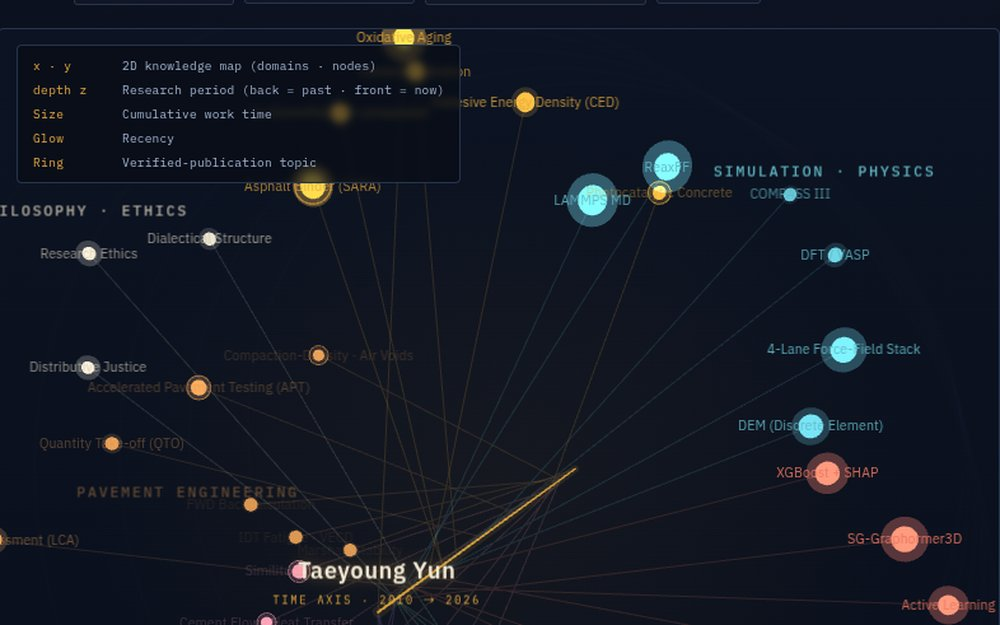
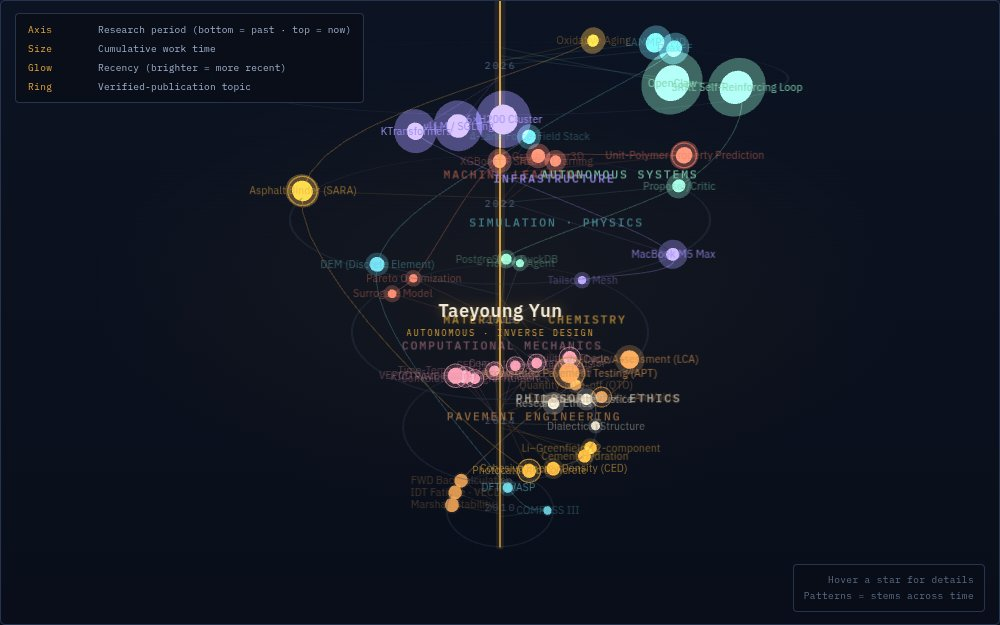
소개 쪽 3D 지식 지도를 Knowledge Vortex(시간 축 나선)판으로 교체
- about/atlas/index.html: 사용자 제공 knowledge_atlas_vortex_en.html 원본 그대로
- about/atlas/preview.jpg: 새 지도 3D 장면 캡처(1000×625)
- about/index.html: 지도 설명 문구를 나선 구조(세로축 = 연구 시기, 8분야 · 45주제 · 연결 7개)로 갱신

Claude-Session: https://claude.ai/code/session_01CkAmjdB34jTARtwSSqSEpf

diff --git a/about/atlas/index.html b/about/atlas/index.html
@@ -3,7 +3,7 @@
 <head>
 <meta charset="UTF-8">
 <meta name="viewport" content="width=device-width, initial-scale=1.0">
-<title>Knowledge Map × Time Axis — Taeyoung Yun (3D)</title>
+<title>Knowledge Vortex — Taeyoung Yun (3D)</title>
 <link rel="preconnect" href="https://fonts.googleapis.com">
 <link rel="preconnect" href="https://fonts.gstatic.com" crossorigin>
 <link href="https://fonts.googleapis.com/css2?family=Newsreader:ital,opsz,wght@0,6..72,300;0,6..72,500;1,6..72,400&family=IBM+Plex+Mono:wght@400;500&family=IBM+Plex+Sans+KR:wght@300;400;500;600&display=swap" rel="stylesheet">
@@ -85,53 +85,50 @@
 <body>
 <div class="wrap">
   <header>
-    <span class="kicker">Knowledge Map × Time Axis · 2D Map + Time Depth (3D)</span>
-    <h1>A map from the front,<br><em>time from the side.</em></h1>
-    <p class="lede">The 2D knowledge map keeps its x·y coordinates, and <b>time is raised as the depth (z) axis</b>. Head-on along the time axis it looks exactly like the familiar 2D radial map; rotate to the side and each topic spreads out along its <b>research period (2010 → 2026)</b>. Drag = rotate · wheel = zoom · right-drag / Shift+drag = pan.</p>
-    <div class="meta">x·y = 2D knowledge map · depth (z) = research period · size = effort · glow = recency · ring = verified publication</div>
+    <span class="kicker">Knowledge Vortex · A Helix Through Time (3D)</span>
+    <h1>What pierces the center<br><em>is time.</em></h1>
+    <p class="lede">Stand Taeyoung Yun up as a vertical axis — 2010s continuum computational mechanics at the bottom, 2020s molecular &amp; autonomous research at the top — and the eight domains wind around that time axis, widening as they rise into a <b>vortex</b>. Drag to rotate, wheel to zoom, right-drag (or Shift+drag) to pan.</p>
+    <div class="meta">Vertical axis = research period (2010 → 2026) · thickness = effort · glow = recency · dashed ring = verified publication</div>
   </header>
 
   <div class="patterns" id="patterns"></div>
 
   <div class="wbar">
     <span class="wlabel">View →</span>
-    <button class="wseg" id="b-front">▣ Front (2D)</button>
-    <button class="wseg" id="b-side">◧ Side (time)</button>
-    <button class="wseg" id="b-rot">⟳ Auto-rotate: off</button>
-    <button class="wseg" id="b-home">⌖ Reset</button>
+    <button class="wseg on" id="b-rot">⟳ Auto-rotate: on</button>
+    <button class="wseg" id="b-home">⌖ Reset view</button>
+    <span class="wcap">drag = rotate · wheel = zoom · right-drag / Shift+drag = pan</span>
   </div>
 
   <div class="stage">
     <div class="scene" id="scene">
       <div class="legend">
-        <div class="lrow"><span class="lk">x · y</span><span class="lv">2D knowledge map (domains · nodes)</span></div>
-        <div class="lrow"><span class="lk">depth z</span><span class="lv">Research period (back = past · front = now)</span></div>
+        <div class="lrow"><span class="lk">Axis</span><span class="lv">Research period (bottom = past · top = now)</span></div>
         <div class="lrow"><span class="lk">Size</span><span class="lv">Cumulative work time</span></div>
-        <div class="lrow"><span class="lk">Glow</span><span class="lv">Recency</span></div>
+        <div class="lrow"><span class="lk">Glow</span><span class="lv">Recency (brighter = more recent)</span></div>
         <div class="lrow"><span class="lk">Ring</span><span class="lv">Verified-publication topic</span></div>
       </div>
       <div id="labels"></div>
-      <div class="hint">Front (▣) = same as 2D<br>Side (◧) = time spread · hover a star for details</div>
+      <div class="hint">Hover a star for details<br>Patterns = stems across time</div>
       <div id="err">Could not load the 3D library.<br>Please check your network connection.</div>
     </div>
 
     <aside class="panel" id="panel">
-      <span class="eyebrow" id="p-eye">map + time axis</span>
-      <h2 id="p-title">The 2D map, stood up in time</h2>
+      <span class="eyebrow" id="p-eye">7 patterns · time axis</span>
+      <h2 id="p-title">The Vortex of Time</h2>
       <div class="body" id="p-body">
-        The same 2D map is kept and <b>time is raised as the depth axis</b>. Head-on it looks identical to the 2D figure; from the side each topic scatters back-to-front by its publication / research period.<br><br><b>Computational Mechanics</b> (2010–2013) sits farthest back; <b>Infrastructure · Autonomy</b> (2025–2026) sits closest to the front. Press pattern ⑦ <b>Two Computational Eras</b> and rotate to the side to see the stem that runs from past to present.
+        Stood up along time, the map becomes a funnel: the narrow base is <b>2010s continuum computational mechanics</b> (VEPCD·KICTPAVE·CFD·similitude); the widening swirl above is <b>2020s molecular &amp; autonomous research</b>.<br><br>Press a pattern to light up its stem <b>across time</b>. In particular, ⑦ <b>Two Computational Eras</b> rises straight up the vortex from base to crown.
       </div>
       <div class="crosslist" id="p-chips"></div>
     </aside>
   </div>
 
-  <footer>2D map + time depth axis · 8 domains / 45 nodes / 7 cross-cutting patterns — front = 2D · side = time spread · drag to rotate · wheel to zoom</footer>
+  <footer>Time-axis vortex · 8 domains / 45 nodes / 7 cross-cutting patterns — drag to rotate · wheel to zoom · right-drag to pan</footer>
 </div>
 
 <div id="tip"><span class="tl"></span><span class="tt"></span></div>
 
 <script>
-// r = recency (1-5) · e = effort (1-5) · year = confirmed/estimated publication-research year (preferred when present)
 const clusters=[
   {id:'mat', name:'Materials · Chemistry', sub:'Materials', angle:-90, color:'#e0a53b', nodes:[
     {id:'sara', label:'Asphalt Binder (SARA)', desc:'SARA fractions — saturates, aromatics, resins, asphaltenes (KSRE topic)', r:4, e:5, pub:true, year:2022},
@@ -220,136 +217,106 @@ const patterns=[
    body:'A single stem runs through <b>two computational eras</b>. <b>2010s</b>: continuum multiphysics — VEPCD, KICTPAVE FEM, TTSP, CFD heat/flow, similitude. <b>2020s</b>: molecular & data — MD, ReaxFF, ML surrogates. Only the method (FEM·CFD→MD·ML) and scale (continuum→molecular) changed; the <b>same question</b> is being chased.'},
 ];
 
-// ---------- positions: 2D map (x,y) + time (z) ----------
+// ---------- vortex positions (twist + widening funnel) ----------
 const DEG=Math.PI/180;
-const HUB=252, SCALE=0.82;
-const YMIN=2009, YMAX=2026;
+const HEIGHT=360, YB=-180, RMIN=46, RMAX=172, TWIST=0.92*Math.PI*2;
 const lerp=(v,a,b,oa,ob)=>oa+(Math.min(Math.max(v,a),b)-a)/(b-a)*(ob-oa);
 const yearOf=r=>2010+Math.round((r-1)*4);
-const zOf=y=>lerp(y,YMIN,YMAX,-330,55);   // past (back,-) → present (front,+)
-const ZMID=(zOf(YMIN)+zOf(YMAX))/2;
 const nodeById={}, nodeList=[];
 clusters.forEach(c=>{
-  const a=c.angle*DEG, n=c.nodes.length;
-  const spread=(n>6?172:n>5?160:152)*DEG, nodeR=(n>6?112:n>5?96:n>4?84:64);
-  const hubx=HUB*Math.cos(a), huby=HUB*Math.sin(a);
+  const baseA=c.angle*DEG, n=c.nodes.length;
   c.nodes.forEach((nd,i)=>{
-    const na=a - spread/2 + (n>1?spread*i/(n-1):0);
-    const x2=hubx+nodeR*Math.cos(na), y2=huby+nodeR*Math.sin(na);
-    const yr=nd.year||yearOf(nd.r);
-    const o={...nd, cluster:c.id, color:c.color, year:yr,
-      x:x2*SCALE, y:-y2*SCALE, z:zOf(yr), size:lerp(nd.e,1,5,2.4,7.2)};
+    const off=(i-(n-1)/2)*0.16;
+    let y=lerp(nd.r,1,5,YB,YB+HEIGHT)+(nd.e-3)*8+(i-(n-1)/2)*5;
+    y=Math.max(YB-18,Math.min(YB+HEIGHT+18,y));
+    const normY=(y-YB)/HEIGHT, rho=RMIN+normY*(RMAX-RMIN), th=baseA+off+TWIST*normY;
+    const o={...nd, cluster:c.id, color:c.color, year:nd.year||yearOf(nd.r),
+      x:rho*Math.cos(th), y:y, z:rho*Math.sin(th), size:lerp(nd.e,1,5,2.4,7.2)};
     nodeById[nd.id]=o; nodeList.push(o);
   });
 });
 
-// ---------- three.js ----------
 let renderer,scene,camera,raycaster,W,H;
 const sceneEl=document.getElementById('scene'), labelsEl=document.getElementById('labels'), tip=document.getElementById('tip');
 const nodeMeshes=[]; let patternTube=null, active=null, dimSet=null, hovered=null;
-const labelObjs=[]; const yearRings=[];
-const HOME={th:Math.PI/2-0.34, ph:Math.PI/2-0.26, rad:780, tgt:new THREE.Vector3(0,0,ZMID)};
-const cam={th:HOME.th, ph:HOME.ph, rad:HOME.rad, tgt:HOME.tgt.clone()};
-const camT={th:HOME.th, ph:HOME.ph, rad:HOME.rad, tgt:HOME.tgt.clone()};
-let autoRotate=false;
-
+const labelObjs=[];
+const cam={th:0.72, ph:1.12, rad:640, tgt:new THREE.Vector3(0,6,0)};
+const camT={th:0.72, ph:1.12, rad:640, tgt:new THREE.Vector3(0,6,0)};
+let autoRotate=true;
 function v3(x,y,z){return new THREE.Vector3(x,y,z);}
+
 function init(){
   if(typeof THREE==='undefined'){ document.getElementById('err').style.display='flex'; return; }
   W=sceneEl.clientWidth; H=sceneEl.clientHeight;
-  renderer=new THREE.WebGLRenderer({antialias:true,alpha:true});
-  renderer.setPixelRatio(Math.min(devicePixelRatio,2)); renderer.setSize(W,H);
+  renderer=new THREE.WebGLRenderer({antialias:true,alpha:true}); renderer.setPixelRatio(Math.min(devicePixelRatio,2)); renderer.setSize(W,H);
   sceneEl.insertBefore(renderer.domElement, labelsEl);
-  scene=new THREE.Scene();
-  camera=new THREE.PerspectiveCamera(47,W/H,1,7000);
-  raycaster=new THREE.Raycaster();
-  buildAxis(); buildSpokes(); buildNodes(); buildLabels(); bindControls();
+  scene=new THREE.Scene(); camera=new THREE.PerspectiveCamera(48,W/H,1,7000); raycaster=new THREE.Raycaster();
+  buildAxis(); buildArms(); buildNodes(); buildLabels(); bindControls();
   window.addEventListener('resize',onResize); animate();
 }
-
 function buildAxis(){
-  const z0=zOf(YMIN), z1=zOf(YMAX), len=z1-z0;
-  const core=new THREE.Mesh(new THREE.CylinderGeometry(0.7,0.7,len,12),
-    new THREE.MeshBasicMaterial({color:0xe0a53b,transparent:true,opacity:0.85}));
-  core.rotation.x=Math.PI/2; core.position.z=(z0+z1)/2; scene.add(core);
-  const glow=new THREE.Mesh(new THREE.CylinderGeometry(3.2,3.2,len,16),
-    new THREE.MeshBasicMaterial({color:0xe0a53b,transparent:true,opacity:0.09,blending:THREE.AdditiveBlending,depthWrite:false}));
-  glow.rotation.x=Math.PI/2; glow.position.z=(z0+z1)/2; scene.add(glow);
-  // time-plane rings at each labelled year
-  [2010,2014,2018,2022,2026].forEach(yr=>{
-    const ring=new THREE.Mesh(new THREE.RingGeometry(300,302,72),
-      new THREE.MeshBasicMaterial({color:0x32415c,transparent:true,opacity:0.0,side:THREE.DoubleSide,depthWrite:false}));
-    ring.position.z=zOf(yr); scene.add(ring); yearRings.push(ring);
+  const h=HEIGHT+90;
+  const core=new THREE.Mesh(new THREE.CylinderGeometry(0.7,0.7,h,12), new THREE.MeshBasicMaterial({color:0xe0a53b,transparent:true,opacity:0.85}));
+  core.position.y=YB+HEIGHT/2; scene.add(core);
+  const glow=new THREE.Mesh(new THREE.CylinderGeometry(3.4,3.4,h,16), new THREE.MeshBasicMaterial({color:0xe0a53b,transparent:true,opacity:0.10,blending:THREE.AdditiveBlending,depthWrite:false}));
+  glow.position.y=YB+HEIGHT/2; scene.add(glow);
+  for(let r=1;r<=5;r++){
+    const y=lerp(r,1,5,YB,YB+HEIGHT), rad=RMIN+(y-YB)/HEIGHT*(RMAX-RMIN);
+    const ring=new THREE.Mesh(new THREE.RingGeometry(rad-1,rad+0.4,64), new THREE.MeshBasicMaterial({color:0x32415c,transparent:true,opacity:0.30,side:THREE.DoubleSide,depthWrite:false}));
+    ring.rotation.x=Math.PI/2; ring.position.y=y; scene.add(ring);
+  }
+}
+function buildArms(){
+  clusters.forEach(c=>{
+    const ns=nodeList.filter(o=>o.cluster===c.id).sort((a,b)=>a.y-b.y);
+    if(ns.length>=2){
+      const curve=new THREE.CatmullRomCurve3(ns.map(o=>v3(o.x,o.y,o.z)));
+      const g=new THREE.BufferGeometry().setFromPoints(curve.getPoints(60));
+      scene.add(new THREE.Line(g,new THREE.LineBasicMaterial({color:new THREE.Color(c.color),transparent:true,opacity:0.28})));
+    }
+    ns.forEach(o=>{ const g=new THREE.BufferGeometry().setFromPoints([v3(o.x,o.y,o.z),v3(0,o.y,0)]); scene.add(new THREE.Line(g,new THREE.LineBasicMaterial({color:new THREE.Color(c.color),transparent:true,opacity:0.12}))); });
   });
 }
-
-function buildSpokes(){
-  // radial spoke from each node to the time-axis point at its own z (looks like 2D radial map head-on)
-  nodeList.forEach(o=>{
-    const g=new THREE.BufferGeometry().setFromPoints([v3(o.x,o.y,o.z),v3(0,0,o.z)]);
-    scene.add(new THREE.Line(g,new THREE.LineBasicMaterial({color:new THREE.Color(o.color),transparent:true,opacity:0.16})));
-  });
-}
-
 function buildNodes(){
   nodeList.forEach(o=>{
     const col=new THREE.Color(o.color);
     const mesh=new THREE.Mesh(new THREE.SphereGeometry(o.size,18,18), new THREE.MeshBasicMaterial({color:col}));
     mesh.position.set(o.x,o.y,o.z); mesh.userData.id=o.id; scene.add(mesh);
-    const halo=new THREE.Mesh(new THREE.SphereGeometry(o.size+lerp(o.r,1,5,1.4,5.5),16,16),
-      new THREE.MeshBasicMaterial({color:col,transparent:true,opacity:lerp(o.r,1,5,0.10,0.42),blending:THREE.AdditiveBlending,depthWrite:false}));
+    const halo=new THREE.Mesh(new THREE.SphereGeometry(o.size+lerp(o.r,1,5,1.4,5.5),16,16), new THREE.MeshBasicMaterial({color:col,transparent:true,opacity:lerp(o.r,1,5,0.10,0.42),blending:THREE.AdditiveBlending,depthWrite:false}));
     halo.position.copy(mesh.position); scene.add(halo);
     let ring=null;
-    if(o.pub){
-      ring=new THREE.Mesh(new THREE.TorusGeometry(o.size+3.2,0.45,8,40),
-        new THREE.MeshBasicMaterial({color:col,transparent:true,opacity:0.75}));
-      ring.position.copy(mesh.position); scene.add(ring);
-    }
+    if(o.pub){ ring=new THREE.Mesh(new THREE.TorusGeometry(o.size+3.2,0.45,8,40), new THREE.MeshBasicMaterial({color:col,transparent:true,opacity:0.75})); ring.position.copy(mesh.position); scene.add(ring); }
     o.mesh=mesh; o.halo=halo; o.ring=ring; o.baseHalo=halo.material.opacity; nodeMeshes.push(mesh);
   });
 }
-
 function mkLabel(cls,html){const d=document.createElement('div');d.className='lab '+cls;d.innerHTML=html;labelsEl.appendChild(d);return d;}
 function buildLabels(){
-  const c=mkLabel('clab','<span class="cn">Taeyoung Yun</span><span class="cs">TIME AXIS · 2010 → 2026</span>');
-  labelObjs.push({el:c,pos:v3(0,18,zOf(YMAX)),kind:'center'});
-  [2010,2014,2018,2022,2026].forEach(yr=>{
-    const el=mkLabel('ylab',yr+''); labelObjs.push({el,pos:v3(0,-300,zOf(yr)),kind:'year'});
-  });
+  const c=mkLabel('clab','<span class="cn">Taeyoung Yun</span><span class="cs">AUTONOMOUS · INVERSE DESIGN</span>');
+  labelObjs.push({el:c,pos:v3(0,2,0),kind:'center'});
+  for(let r=1;r<=5;r++){ const y=lerp(r,1,5,YB,YB+HEIGHT); labelObjs.push({el:mkLabel('ylab',yearOf(r)+''),pos:v3(0,y,0),kind:'year'}); }
   clusters.forEach(cl=>{
     const ns=nodeList.filter(o=>o.cluster===cl.id);
     const mx=ns.reduce((s,o)=>s+o.x,0)/ns.length, my=ns.reduce((s,o)=>s+o.y,0)/ns.length, mz=ns.reduce((s,o)=>s+o.z,0)/ns.length;
-    const el=mkLabel('dlab',cl.name); el.style.color=cl.color;
-    labelObjs.push({el,pos:v3(mx*1.16,my*1.16+ (my>0?16:-16),mz),kind:'domain',id:cl.id});
+    const el=mkLabel('dlab',cl.name); el.style.color=cl.color; labelObjs.push({el,pos:v3(mx*1.18,my+18,mz*1.18),kind:'domain',id:cl.id});
   });
   nodeList.forEach(o=>{ const el=mkLabel('nlab',o.label); el.style.color=o.color; labelObjs.push({el,pos:v3(o.x,o.y,o.z),kind:'node',id:o.id}); });
 }
-
-const _p=new THREE.Vector3(), _dir=new THREE.Vector3();
-let alignZ=1;
+const _p=new THREE.Vector3();
 function updateLabels(){
-  // alignZ ~ 1 when looking straight down the time axis (front 2D view)
-  _dir.copy(camT.tgt).sub(camera.position).normalize(); alignZ=Math.abs(_dir.z);
   const camPos=camera.position;
   for(const L of labelObjs){
     _p.copy(L.pos); _p.project(camera);
     if(_p.z>1){ L.el.style.opacity=0; continue; }
     const sx=(_p.x*0.5+0.5)*W, sy=(-_p.y*0.5+0.5)*H;
     if(sx<-90||sx>W+90||sy<-40||sy>H+40){ L.el.style.opacity=0; continue; }
-    const dist=camPos.distanceTo(L.pos);
-    let op=lerp(dist,camT.rad-260,camT.rad+280,1.0,0.10);
-    if(L.kind==='center'){op=1;}
-    else if(L.kind==='year'){op=Math.min(op+0.2,0.9)*(1-alignZ);}      // fade in side view only
-    else if(L.kind==='domain'){op=Math.min(op+0.2,1);}
+    const dist=camPos.distanceTo(L.pos); let op=lerp(dist,camT.rad-200,camT.rad+220,1.0,0.10);
+    if(L.kind==='center'){op=1;} else if(L.kind==='year'){op=Math.min(op+0.25,0.9);} else if(L.kind==='domain'){op=Math.min(op+0.18,1);}
     else { if(active){ op=(dimSet&&dimSet.has(L.id))?Math.min(op+0.15,1):op*0.12; } if(hovered===L.id) op=1; }
     L.el.style.opacity=op.toFixed(3);
     L.el.style.transform=`translate(-50%,-50%) translate(${sx.toFixed(1)}px,${sy.toFixed(1)}px)`;
     L.el.style.zIndex=(L.kind==='center')?20:(hovered===L.id?15:Math.round((1-_p.z)*8));
   }
-  // year-plane rings: visible only off-axis
-  yearRings.forEach(r=>{ r.material.opacity=0.22*(1-alignZ); });
 }
-
 function animate(){
   requestAnimationFrame(animate);
   if(autoRotate && !dragging) camT.th+=0.0016;
@@ -362,45 +329,30 @@ function animate(){
 }
 function onResize(){ W=sceneEl.clientWidth; H=sceneEl.clientHeight; camera.aspect=W/H; camera.updateProjectionMatrix(); renderer.setSize(W,H); }
 
-// ---------- controls ----------
 let dragging=false, mode='rot', lastX=0, lastY=0; const pointers=new Map(); let pinchDist=0;
 function bindControls(){
-  const el=renderer.domElement;
-  el.addEventListener('contextmenu',e=>e.preventDefault());
-  el.addEventListener('pointerdown',e=>{
-    el.setPointerCapture(e.pointerId); pointers.set(e.pointerId,{x:e.clientX,y:e.clientY});
+  const el=renderer.domElement; el.addEventListener('contextmenu',e=>e.preventDefault());
+  el.addEventListener('pointerdown',e=>{ el.setPointerCapture(e.pointerId); pointers.set(e.pointerId,{x:e.clientX,y:e.clientY});
     if(pointers.size===1){ dragging=true; mode=(e.button===2||e.button===1||e.shiftKey)?'pan':'rot'; lastX=e.clientX; lastY=e.clientY; }
-    else if(pointers.size===2){ dragging=true; mode='pinch'; const p=[...pointers.values()]; pinchDist=Math.hypot(p[0].x-p[1].x,p[0].y-p[1].y); }
-  });
-  el.addEventListener('pointermove',e=>{
-    if(pointers.has(e.pointerId)) pointers.set(e.pointerId,{x:e.clientX,y:e.clientY});
+    else if(pointers.size===2){ dragging=true; mode='pinch'; const p=[...pointers.values()]; pinchDist=Math.hypot(p[0].x-p[1].x,p[0].y-p[1].y); } });
+  el.addEventListener('pointermove',e=>{ if(pointers.has(e.pointerId)) pointers.set(e.pointerId,{x:e.clientX,y:e.clientY});
     if(!dragging){ hoverTest(e); return; }
-    if(mode==='pinch'&&pointers.size>=2){ const p=[...pointers.values()]; const d=Math.hypot(p[0].x-p[1].x,p[0].y-p[1].y); camT.rad*=Math.max(0.5,Math.min(1.5,pinchDist/Math.max(1,d))); camT.rad=Math.max(220,Math.min(1600,camT.rad)); pinchDist=d; return; }
+    if(mode==='pinch'&&pointers.size>=2){ const p=[...pointers.values()]; const d=Math.hypot(p[0].x-p[1].x,p[0].y-p[1].y); camT.rad*=Math.max(0.5,Math.min(1.5,pinchDist/Math.max(1,d))); camT.rad=Math.max(180,Math.min(1400,camT.rad)); pinchDist=d; return; }
     const dx=e.clientX-lastX, dy=e.clientY-lastY; lastX=e.clientX; lastY=e.clientY;
-    if(mode==='pan') doPan(dx,dy); else { camT.th-=dx*0.005; camT.ph-=dy*0.005; camT.ph=Math.max(0.12,Math.min(Math.PI-0.12,camT.ph)); }
-  });
+    if(mode==='pan') doPan(dx,dy); else { camT.th-=dx*0.005; camT.ph-=dy*0.005; camT.ph=Math.max(0.16,Math.min(Math.PI-0.16,camT.ph)); } });
   const up=e=>{ pointers.delete(e.pointerId); if(pointers.size===0) dragging=false; else if(pointers.size===1){mode='rot'; const p=[...pointers.values()][0]; lastX=p.x; lastY=p.y;} };
   el.addEventListener('pointerup',up); el.addEventListener('pointercancel',up);
-  el.addEventListener('wheel',e=>{ e.preventDefault(); camT.rad*=(1+e.deltaY*0.0009); camT.rad=Math.max(220,Math.min(1600,camT.rad)); },{passive:false});
+  el.addEventListener('wheel',e=>{ e.preventDefault(); camT.rad*=(1+e.deltaY*0.0009); camT.rad=Math.max(180,Math.min(1400,camT.rad)); },{passive:false});
 }
 function doPan(dx,dy){ const f=camT.rad*0.0016; const right=new THREE.Vector3(), up=new THREE.Vector3(); camera.getWorldDirection(right); right.cross(camera.up).normalize(); up.copy(camera.up).normalize(); camT.tgt.addScaledVector(right,-dx*f); camT.tgt.addScaledVector(up,dy*f); }
-
 const mouse=new THREE.Vector2();
 function hoverTest(e){
-  const rect=renderer.domElement.getBoundingClientRect();
-  mouse.x=((e.clientX-rect.left)/rect.width)*2-1; mouse.y=-((e.clientY-rect.top)/rect.height)*2+1;
-  raycaster.setFromCamera(mouse,camera);
-  const hit=raycaster.intersectObjects(nodeMeshes,false);
-  if(hit.length){
-    const o=nodeById[hit[0].object.userData.id]; hovered=o.id;
-    tip.querySelector('.tl').textContent=o.label;
-    tip.querySelector('.tt').textContent=o.desc+'  ·  '+o.year;
-    let x=e.clientX+16,y=e.clientY+16; if(x>innerWidth-270)x=e.clientX-260;
-    tip.style.left=x+'px'; tip.style.top=y+'px'; tip.style.opacity=1;
+  const rect=renderer.domElement.getBoundingClientRect(); mouse.x=((e.clientX-rect.left)/rect.width)*2-1; mouse.y=-((e.clientY-rect.top)/rect.height)*2+1;
+  raycaster.setFromCamera(mouse,camera); const hit=raycaster.intersectObjects(nodeMeshes,false);
+  if(hit.length){ const o=nodeById[hit[0].object.userData.id]; hovered=o.id; tip.querySelector('.tl').textContent=o.label; tip.querySelector('.tt').textContent=o.desc+'  ·  '+o.year;
+    let x=e.clientX+16,y=e.clientY+16; if(x>innerWidth-270)x=e.clientX-260; tip.style.left=x+'px'; tip.style.top=y+'px'; tip.style.opacity=1;
   } else { hovered=null; tip.style.opacity=0; }
 }
-
-// ---------- patterns ----------
 function buildButtons(){
   const box=document.getElementById('patterns');
   patterns.forEach(p=>{ const b=document.createElement('button'); b.className='ptn'; b.dataset.id=p.id; b.style.setProperty('--pc',p.color); b.innerHTML=`<span class="pn">${p.n}</span><span class="pt">${p.t}</span>`; b.onclick=()=>select(p.id); box.appendChild(b); });
@@ -411,9 +363,9 @@ function clearSel(){
   active=null; dimSet=null; disposeTube();
   document.querySelectorAll('.ptn').forEach(e=>e.classList.remove('on'));
   nodeList.forEach(o=>{ o.mesh.material.opacity=1; o.mesh.material.transparent=false; o.halo.material.opacity=o.baseHalo; if(o.ring)o.ring.material.opacity=0.75; });
-  document.getElementById('p-eye').textContent='map + time axis';
-  document.getElementById('p-title').textContent='The 2D map, stood up in time';
-  document.getElementById('p-body').innerHTML='The same 2D map is kept and <b>time is raised as the depth axis</b>. Head-on it looks identical to the 2D figure; from the side each topic scatters back-to-front by its publication / research period.<br><br><b>Computational Mechanics</b> (2010–2013) sits farthest back; <b>Infrastructure · Autonomy</b> (2025–2026) sits closest to the front. Press pattern ⑦ <b>Two Computational Eras</b> and rotate to the side.';
+  document.getElementById('p-eye').textContent='7 patterns · time axis';
+  document.getElementById('p-title').textContent='The Vortex of Time';
+  document.getElementById('p-body').innerHTML='Stood up along time, the map becomes a funnel: the narrow base is <b>2010s continuum computational mechanics</b> (VEPCD·KICTPAVE·CFD·similitude); the widening swirl above is <b>2020s molecular &amp; autonomous research</b>.<br><br>Press a pattern to light up its stem <b>across time</b>. In particular, ⑦ <b>Two Computational Eras</b> rises straight up the vortex from base to crown.';
   document.getElementById('p-chips').innerHTML='';
 }
 function select(id){
@@ -421,10 +373,8 @@ function select(id){
   const p=patterns.find(x=>x.id===id); active=id; dimSet=new Set(p.seq);
   document.querySelectorAll('.ptn').forEach(e=>e.classList.toggle('on',e.dataset.id===id));
   disposeTube();
-  const pts=p.seq.map(nid=>{const o=nodeById[nid];return v3(o.x,o.y,o.z);});
-  const curve=new THREE.CatmullRomCurve3(pts,false,'catmullrom',0.25); const col=new THREE.Color(p.color);
-  patternTube=new THREE.Mesh(new THREE.TubeGeometry(curve,140,1.7,10,false),
-    new THREE.MeshBasicMaterial({color:col,transparent:true,opacity:0.85,blending:THREE.AdditiveBlending,depthWrite:false}));
+  const curve=new THREE.CatmullRomCurve3(p.seq.map(nid=>{const o=nodeById[nid];return v3(o.x,o.y,o.z);}),false,'catmullrom',0.25);
+  patternTube=new THREE.Mesh(new THREE.TubeGeometry(curve,140,1.7,10,false), new THREE.MeshBasicMaterial({color:new THREE.Color(p.color),transparent:true,opacity:0.85,blending:THREE.AdditiveBlending,depthWrite:false}));
   scene.add(patternTube);
   nodeList.forEach(o=>{ const on=dimSet.has(o.id); o.mesh.material.transparent=true; o.mesh.material.opacity=on?1:0.12; o.halo.material.opacity=on?Math.min(o.baseHalo+0.2,0.7):0.03; if(o.ring)o.ring.material.opacity=on?0.9:0.12; });
   document.getElementById('p-eye').textContent=p.n.replace('pattern','Pattern');
@@ -432,13 +382,9 @@ function select(id){
   document.getElementById('p-body').innerHTML=p.body;
   document.getElementById('p-chips').innerHTML=p.crosses.map(c=>`<span class="chip">↔ ${c}</span>`).join('');
 }
-
-// ---------- view buttons ----------
-document.getElementById('b-front').onclick=()=>{ camT.th=Math.PI/2; camT.ph=Math.PI/2; camT.rad=760; camT.tgt.set(0,0,ZMID); autoRotate=false; setRot(); };
-document.getElementById('b-side').onclick=()=>{ camT.th=Math.PI/2-0.72; camT.ph=1.0; camT.rad=820; camT.tgt.set(0,0,ZMID); autoRotate=false; setRot(); };
-document.getElementById('b-home').onclick=()=>{ camT.th=HOME.th; camT.ph=HOME.ph; camT.rad=HOME.rad; camT.tgt.copy(HOME.tgt); };
 function setRot(){ const b=document.getElementById('b-rot'); b.textContent='⟳ Auto-rotate: '+(autoRotate?'on':'off'); b.classList.toggle('on',autoRotate); }
 document.getElementById('b-rot').onclick=()=>{ autoRotate=!autoRotate; setRot(); };
+document.getElementById('b-home').onclick=()=>{ camT.th=0.72; camT.ph=1.12; camT.rad=640; camT.tgt.set(0,6,0); };
 
 init(); buildButtons();
 </script>

diff --git a/about/index.html b/about/index.html
@@ -98,7 +98,7 @@ footer{padding:22px 0 36px;font-size:13px;color:var(--mute)}
 <li><b>Particle, fluid, and heat-transfer simulation</b> — DEM for aggregate packing, slump, compaction, gravel-road corrugation, soil shrinkage, and subsidence; coupled CFD–DEM for permeability and clogging; cement-paste flow; heat transfer for black-ice prediction, snow melting on porous pavement, and cooling of asphalt mixtures in transit.</li>
 <li><b>Molecular simulation and materials informatics</b> — MD of organic–inorganic systems, polymer units in asphalt binder, concrete carbonation and cement hydration (reactive MD); LAMMPS and Materials Studio/Forcite; Python, C++, Fortran; GNN supergraph models (Graphormer3D), Random Forest, XGBoost, and automated simulation workflows.</li></ul></div></section>
   <section id="en-atlas"><div class="wrap"><h2>Knowledge Map (3D)</h2>
-    <p style="margin:0 0 14px;color:var(--ink2)">An interactive map of research topics: the 2D knowledge map (8 domains, 45 topics) with the research period raised as the depth axis (2010 → 2026). Head-on it reads as a 2D radial map; rotated to the side, each topic spreads out along time. Drag to rotate, scroll to zoom. Opens in a new tab.</p>
+    <p style="margin:0 0 14px;color:var(--ink2)">An interactive 3D map of research topics (8 domains, 45 topics, 7 cross-cutting patterns). The research period is the vertical axis, from 2010 at the bottom to 2026 at the top, and the domains wind around it in a spiral that widens upward. Selecting a pattern highlights the topics it links across time. Drag to rotate, scroll to zoom. Opens in a new tab.</p>
     <a class="atlas" href="atlas/" target="_blank" rel="noopener"><img src="atlas/preview.jpg" alt="3D knowledge map preview" width="1000" height="625" loading="lazy">
       <span class="open">Open the 3D map ↗</span></a></div></section>
   <section id="en-career"><div class="wrap"><h2>Professional Experience</h2><dl class="tl"><dt>2009–present</dt><dd><b>Korea Institute of Civil Engineering and Building Technology</b> · Research Fellow<ul class="b" style="margin-top:6px"><li>Develop physics-based models and scientific software for material behavior, construction processes, and equipment design, combining continuum, particle, and molecular simulation methods.</li><li>Conduct life-cycle greenhouse-gas assessment of pavement materials and construction, including specialty asphalt mixtures and digital platforms for carbon-neutral cities.</li><li>Provide simulation-based industry support, including aggregate dryer-drum analysis for a Korean plant equipment company using engineering design drawings.</li><li>Architect and develop COMID, a Python-based environment for automated molecular simulation and materials informatics.</li></ul></dd><dt>2025–present</dt><dd><b>University of Science and Technology (UST)</b> · Full Professor, concurrent appointment</dd><dt>2014–2022</dt><dd><b>Chung-Ang University</b> · Adjunct Professor</dd><dt>2009–2012</dt><dd><b>Chung-Ang University</b> · Lecturer</dd><dt>2003–2004</dt><dd><b>Korea Institute of Civil Engineering and Building Technology</b> · Researcher</dd></dl>
@@ -130,7 +130,7 @@ footer{padding:22px 0 36px;font-size:13px;color:var(--mute)}
 <li><b>입자 · 유체 · 열전달 해석</b> — 골재 충전 · 슬럼프 · 다짐 · 비포장도로 파상 · 흙 수축 · 침하의 개별요소(DEM) 해석, CFD–DEM 연성 투수 · 막힘 해석, 시멘트 페이스트 유동, 블랙아이스 예측 · 투수 포장 융설 · 운반 중 아스팔트 혼합물 냉각의 열전달 해석</li>
 <li><b>분자 시뮬레이션 · 재료정보학</b> — 유기–무기 계 분자동역학, 아스팔트 바인더 고분자 단위, 콘크리트 탄산화 · 시멘트 수화(반응 MD); LAMMPS, Materials Studio/Forcite; Python · C++ · Fortran; GNN 슈퍼그래프 모델(Graphormer3D), Random Forest · XGBoost, 시뮬레이션 자동화</li></ul></div></section>
   <section id="ko-atlas"><div class="wrap"><h2>지식 지도 (3D)</h2>
-    <p style="margin:0 0 14px;color:var(--ink2)">연구 주제를 3차원으로 펼친 대화형 지도입니다. 2차원 지식 지도(8개 분야 · 45개 주제)에 연구 시기(2010 → 2026)를 깊이 축으로 세웠습니다. 정면에서는 2차원 방사형 지도로, 옆에서는 주제가 시기별로 펼쳐져 보입니다. 끌어서 회전하고 휠로 확대합니다. 새 탭에서 열리며, 지도 안의 글은 영문입니다.</p>
+    <p style="margin:0 0 14px;color:var(--ink2)">연구 주제를 3차원으로 펼친 대화형 지도입니다(8개 분야 · 45개 주제 · 분야를 가로지르는 연결 7개). 세로축이 연구 시기로, 아래가 2010년, 위가 2026년이며, 분야들이 이 축을 따라 위로 갈수록 넓어지는 나선으로 배치됩니다. 연결을 고르면 그 연결에 속한 주제가 시기별로 강조됩니다. 끌어서 회전하고 휠로 확대합니다. 새 탭에서 열리며, 지도 안의 글은 영문입니다.</p>
     <a class="atlas" href="atlas/" target="_blank" rel="noopener"><img src="atlas/preview.jpg" alt="3D 지식 지도 미리보기" width="1000" height="625" loading="lazy">
       <span class="open">3D 지도 열기 ↗</span></a></div></section>
   <section id="ko-career"><div class="wrap"><h2>경력</h2><dl class="tl"><dt>2009–현재</dt><dd><b>한국건설기술연구원</b> · 연구위원<ul class="b" style="margin-top:6px"><li>재료 거동 · 시공 공정 · 장비 설계를 위한 물리 기반 모델과 해석 소프트웨어 개발(연속체 · 입자 · 분자 시뮬레이션 결합)</li><li>포장 재료 · 시공의 전과정 온실가스 평가 수행(특수 아스팔트 혼합물, 탄소중립 도시 디지털 플랫폼 포함)</li><li>국내 플랜트 장비 업체를 위한 골재 건조 드럼 해석 등 산업 해석 지원(설계 도면 기반)</li><li>분자 시뮬레이션 · 재료정보학 자동화 환경 COMID(Python) 설계 · 개발</li></ul></dd><dt>2025–현재</dt><dd><b>과학기술연합대학원대학교(UST)</b> · 교수(겸임)</dd><dt>2014–2022</dt><dd><b>중앙대학교</b> · 겸임교수</dd><dt>2009–2012</dt><dd><b>중앙대학교</b> · 강사</dd><dt>2003–2004</dt><dd><b>한국건설기술연구원</b> · 연구원</dd></dl>
